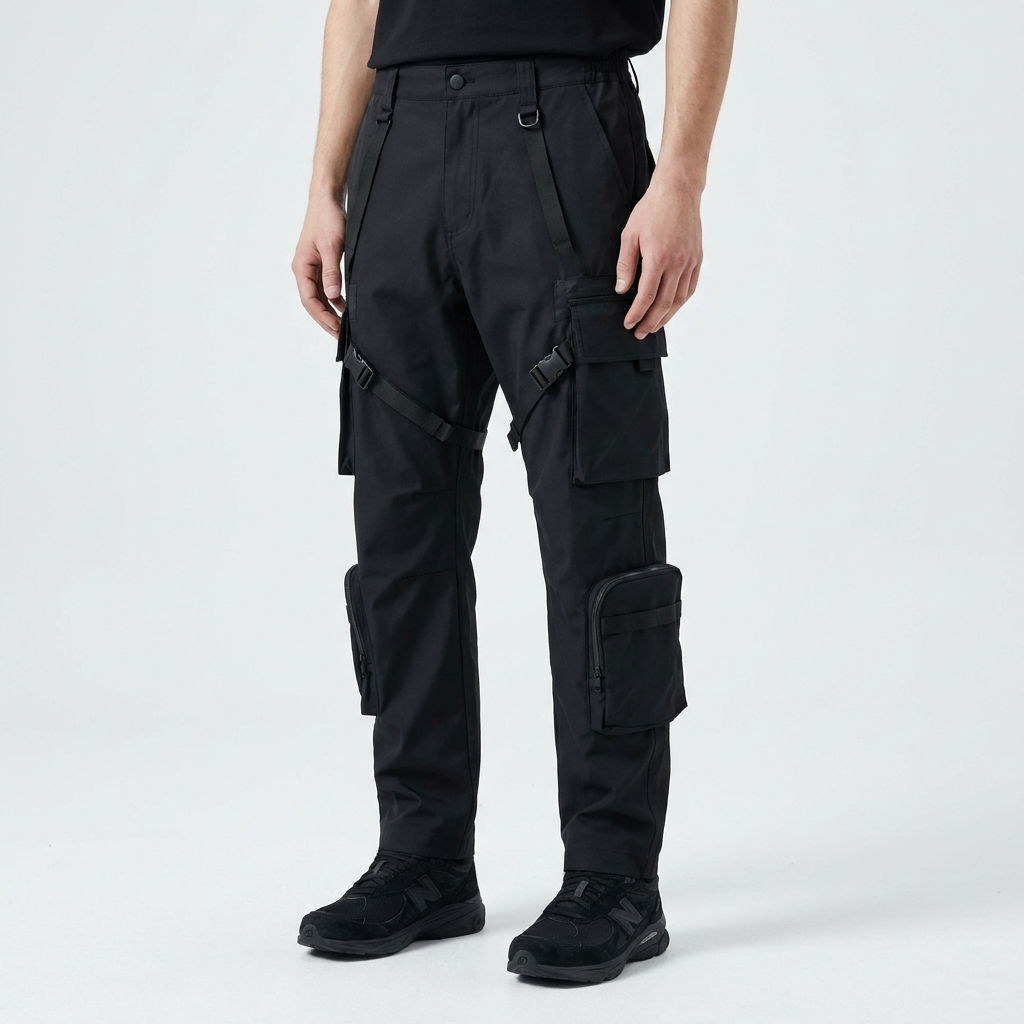
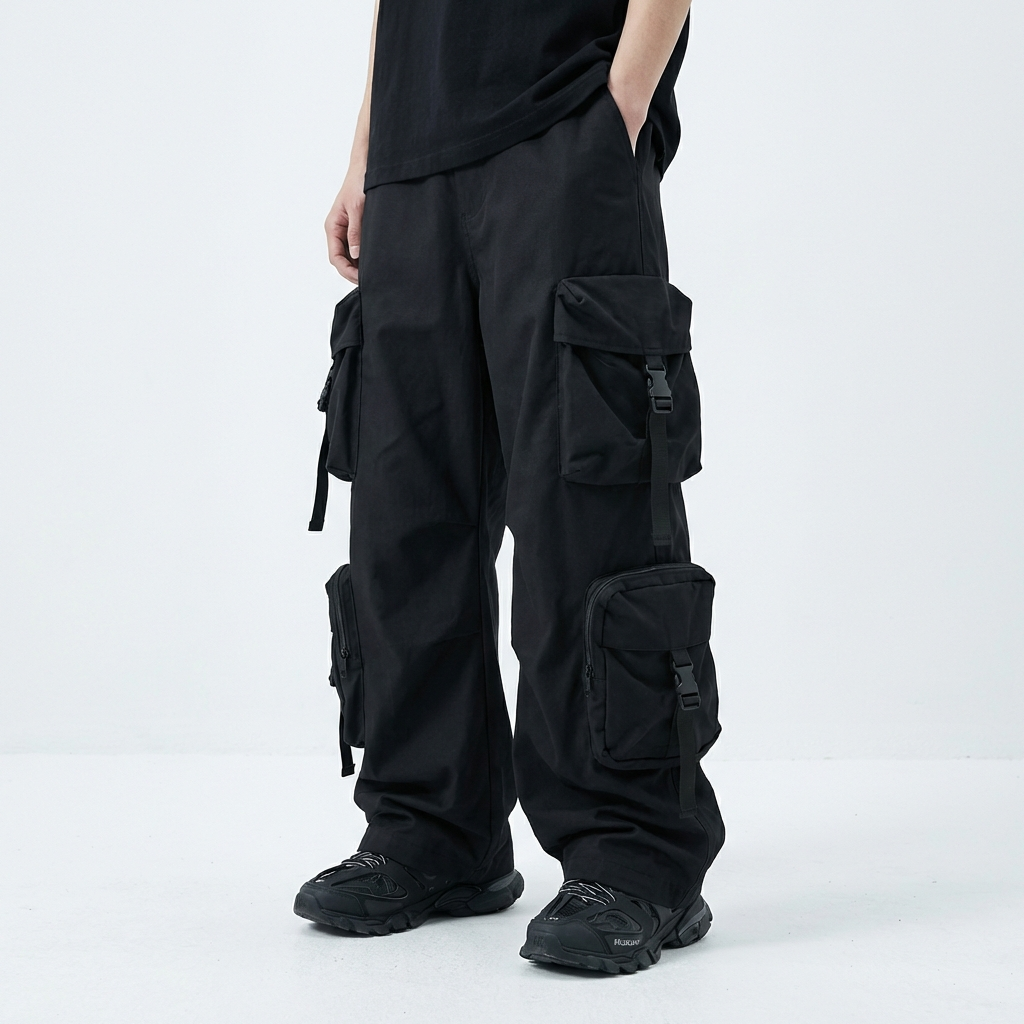
ajout images

diff --git a/data/products.js b/data/products.js
@@ -25,35 +25,35 @@ export const products = [
     },
     {
         id: '4',
-        name: 'Technical Cargo V1',
-        price: 120,
+        name: 'Wide-Leg Tactical Cargo',
+        price: 135,
         image: '/images/product-4.jpg',
         category: 'Bottoms',
-        description: 'Nylon tactical cargo pants with adjustable hem.'
+        description: 'Ultra-wide leg cargo pants with stacking fit and 3D pockets.'
     },
     {
         id: '5',
-        name: 'Mohair Knit Sweater',
-        price: 110,
+        name: 'Acid Wash Graphic Tee',
+        price: 55,
         image: '/images/product-5.jpg',
-        category: 'Knitwear',
-        description: 'Fuzzy mohair blend sweater with distressed details.'
+        category: 'T-Shirts',
+        description: 'Vintage washed grey tee with large grunge Arabic calligraphy print.'
     },
     {
         id: '6',
-        name: 'Shell Windbreaker',
+        name: 'Distressed Chrome Hoodie',
         price: 145,
         image: '/images/product-6.jpg',
-        category: 'Outerwear',
-        description: 'Water-resistant shell jacket with reflective piping.'
+        category: 'Hoodies',
+        description: 'Heavily distressed sun-faded hoodie with chrome-effect puff print.'
     },
     {
         id: '7',
-        name: 'Crossbody Utility Bag',
-        price: 60,
+        name: 'SABR Varsity Jacket',
+        price: 350,
         image: '/images/product-7.jpg',
-        category: 'Accessories',
-        description: 'Compact bag for daily essentials.'
+        category: 'Outerwear',
+        description: 'Wool and leather varsity jacket with chenille sword patches.'
     },
     {
         id: '8',
